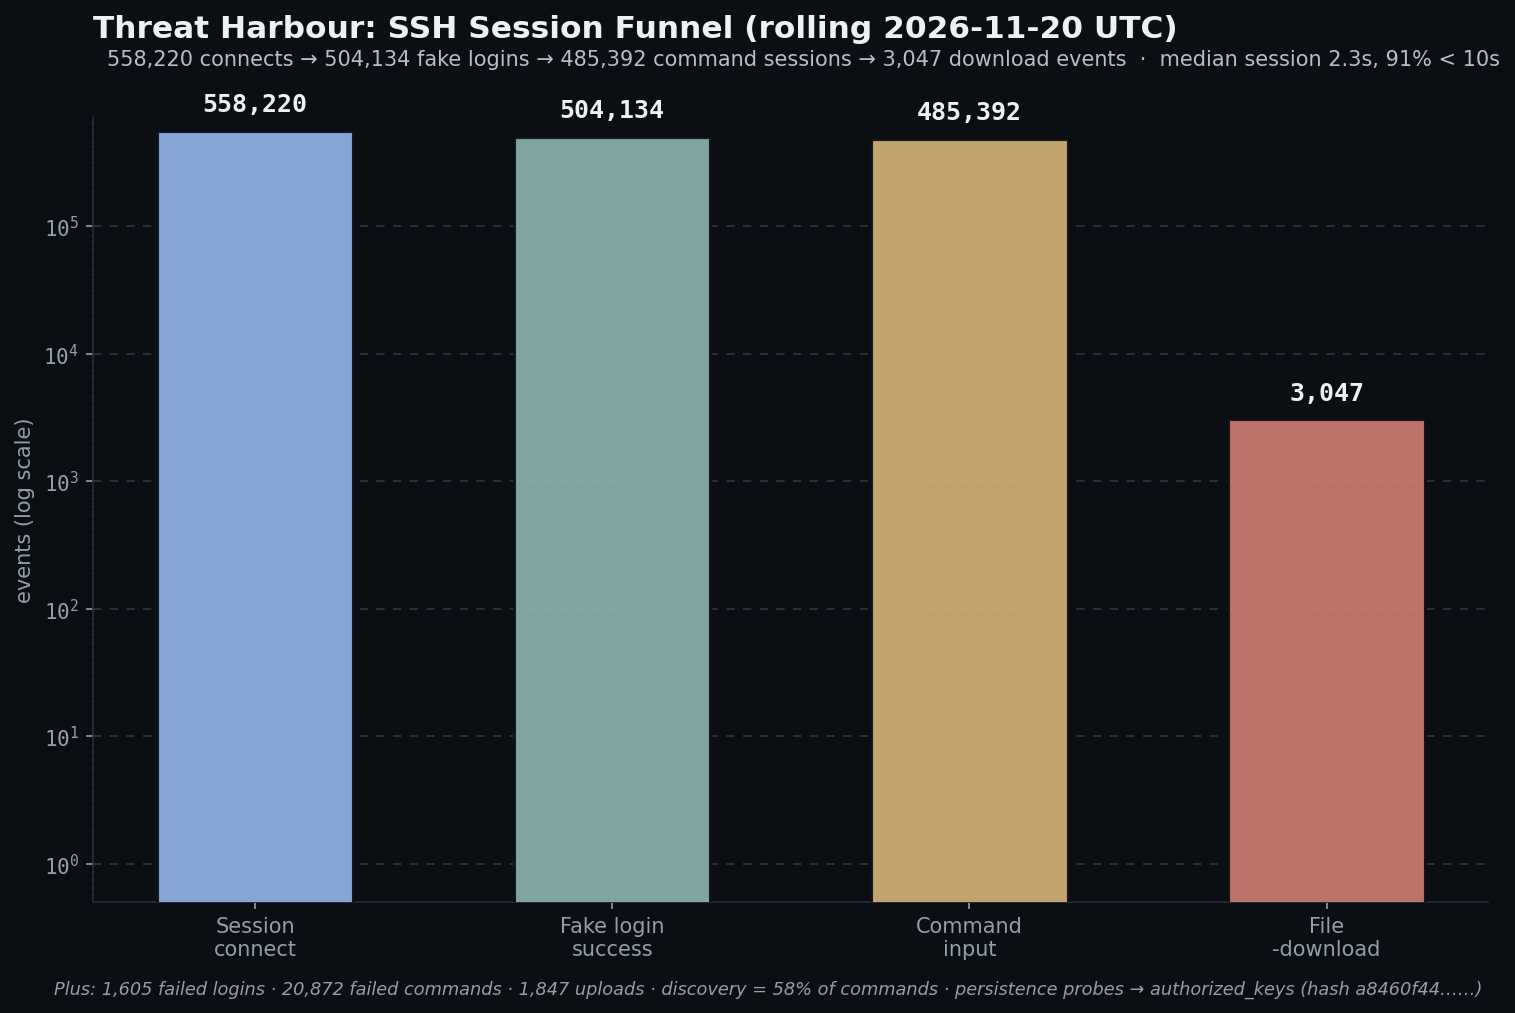
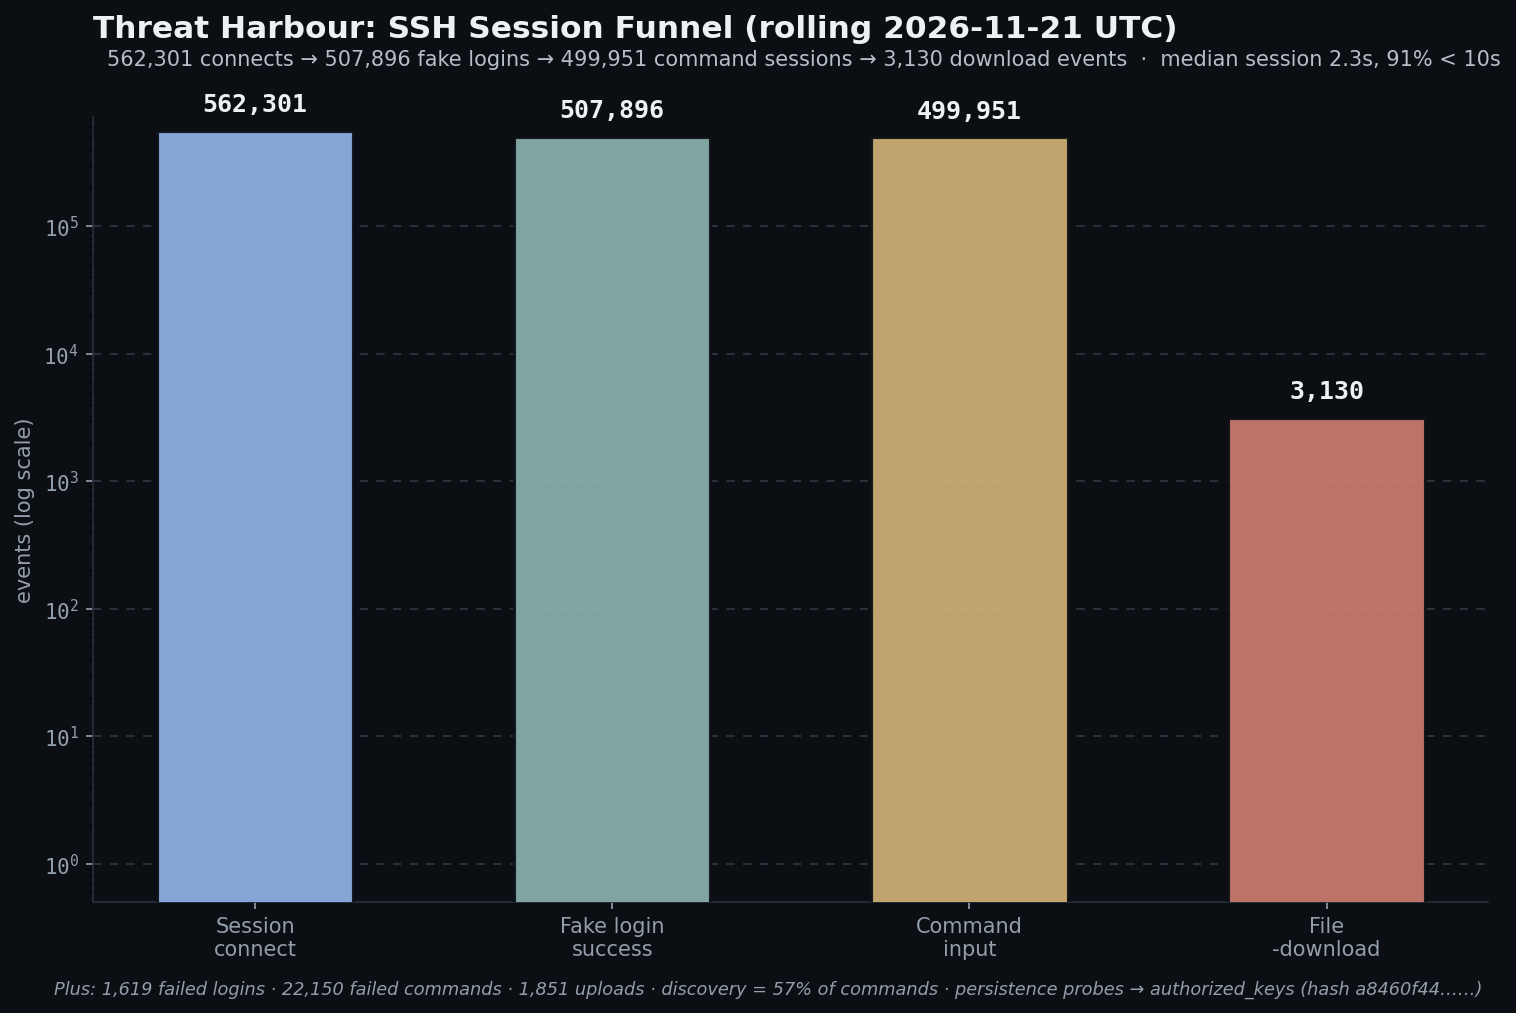
Daily metrics: 4,398,126 events (automated)

diff --git a/analysis/summary.md b/analysis/summary.md
@@ -1,13 +1,13 @@
-# Analysis summary (rolling snapshot, cutoff 2026-11-20T06:10:14Z)
+# Analysis summary (rolling snapshot, cutoff 2026-11-21T06:03:02Z)
 
 Sensor is **still running**: this file regenerates every 24 hours.
 Observation: `2026-08-27` → `ongoing`. Numbers below are a snapshot at
-`2026-11-20T06:10:14Z` (4,354,804 events).
+`2026-11-21T06:03:02Z` (4,398,126 events).
 
 ## Source
 
 - Cowrie JSONL on sensor: `/home/jack/honeypot/var/log/cowrie/cowrie.json*`
-  (86 files, 45 malformed lines): the same files Promtail ships to Loki
+  (87 files, 45 malformed lines): the same files Promtail ships to Loki
   (`job="cowrie"`).
 - Parser: `scripts/parse_remote.py` (stdlib only, deployed fresh each run);
   renderer: `scripts/render.py`. Aggregates only. Raw logs stay on the
@@ -17,22 +17,21 @@ Observation: `2026-08-27` → `ongoing`. Numbers below are a snapshot at
 
 | Metric | Value |
 |---|---|
-| Total events | 4,354,804 |
-| Unique source IPs | 10,130 |
-| Sessions (`cowrie.session.connect`) | 558,220 |
-| SSH events | 4,354,804 (100%) |
-| Fake successful logins (`cowrie.login.success`) | 504,134 |
-| Failed logins | 1,605 |
-| Command-input events | 485,392 (+20,872 `command.failed`) |
-| File-download events | 3,047 |
-| File-upload events | 1,847 |
-| Session duration median (n=557,960 matched close) | 2.3s; 506,584 < 10s; max ~18,022s |
+| Total events | 4,398,126 |
+| Unique source IPs | 10,215 |
+| Sessions (`cowrie.session.connect`) | 562,301 |
+| SSH events | 4,398,126 (100%) |
+| Fake successful logins (`cowrie.login.success`) | 507,896 |
+| Failed logins | 1,619 |
+| Command-input events | 499,951 (+22,150 `command.failed`) |
+| File-download events | 3,130 |
+| File-upload events | 1,851 |
+| Session duration median (n=562,041 matched close) | 2.3s; 510,231 < 10s; max ~18,022s |
 
 ## Events per UTC day
 
 | Day (UTC) | Events |
 |---|---|
-| `2026-10-22` | 85,522 |
 | `2026-10-23` | 94,483 |
 | `2026-10-24` | 93,187 |
 | `2026-10-25` | 96,986 |
@@ -61,10 +60,11 @@ Observation: `2026-08-27` → `ongoing`. Numbers below are a snapshot at
 | `2026-11-17` | 57,401 |
 | `2026-11-18` | 87,847 |
 | `2026-11-19` | 72,413 |
-| `2026-11-20` | 8,606 |
+| `2026-11-20` | 45,020 |
+| `2026-11-21` | 6,908 |
 
 <details>
-<summary>Older days (56 days, click to expand)</summary>
+<summary>Older days (57 days, click to expand)</summary>
 
 | Day (UTC) | Events |
 |---|---|
@@ -124,67 +124,68 @@ Observation: `2026-08-27` → `ongoing`. Numbers below are a snapshot at
 | `2026-10-19` | 88,052 |
 | `2026-10-20` | 82,218 |
 | `2026-10-21` | 99,039 |
+| `2026-10-22` | 85,522 |
 
 </details>
 
-`2026-11-20` is partial at cutoff: do not annualize.
+`2026-11-21` is partial at cutoff: do not annualize.
 
 ### Top usernames
 
 | # | Value | Tries |
 |---|---|---|
-| 1 | `root` | 195,582 |
-| 2 | `ubuntu` | 58,107 |
-| 3 | `admin` | 35,230 |
+| 1 | `root` | 197,261 |
+| 2 | `ubuntu` | 58,230 |
+| 3 | `admin` | 35,438 |
 | 4 | `y2unix` | 18,853 |
-| 5 | `user` | 18,068 |
-| 6 | `deploy` | 3,700 |
-| 7 | `test` | 2,892 |
-| 8 | `345gs5662d34` | 2,119 |
-| 9 | `user1` | 1,963 |
-| 10 | `claude` | 1,711 |
+| 5 | `user` | 18,123 |
+| 6 | `deploy` | 3,746 |
+| 7 | `test` | 2,926 |
+| 8 | `345gs5662d34` | 2,125 |
+| 9 | `user1` | 1,989 |
+| 10 | `claude` | 1,733 |
 
 ### Top passwords
 
 | # | Value | Tries |
 |---|---|---|
-| 1 | `123456` | 12,967 |
-| 2 | `123` | 6,757 |
-| 3 | `1234` | 6,238 |
-| 4 | `12345678` | 3,716 |
-| 5 | `1` | 3,099 |
-| 6 | `root` | 2,828 |
-| 7 | `password` | 2,791 |
-| 8 | `12345` | 2,753 |
-| 9 | `admin` | 2,730 |
-| 10 | `345gs5662d34` | 2,119 |
+| 1 | `123456` | 13,139 |
+| 2 | `123` | 6,849 |
+| 3 | `1234` | 6,313 |
+| 4 | `12345678` | 3,780 |
+| 5 | `1` | 3,139 |
+| 6 | `root` | 2,870 |
+| 7 | `password` | 2,837 |
+| 8 | `12345` | 2,799 |
+| 9 | `admin` | 2,764 |
+| 10 | `123456789` | 2,141 |
 
 ### Top commands
 
 | # | Value | Tries |
 |---|---|---|
-| 1 | `uname -s -v -n -r -m` | 242,229 |
+| 1 | `uname -s -v -n -r -m` | 244,801 |
 | 2 | `echo -e "\x6F\x6B"` | 11,273 |
-| 3 | `hostname` | 6,839 |
-| 4 | `uname -a` | 5,068 |
-| 5 | `echo xsec` | 4,612 |
-| 6 | `whoami` | 3,976 |
+| 3 | `hostname` | 6,886 |
+| 4 | `uname -a` | 5,099 |
+| 5 | `echo xsec` | 4,803 |
+| 6 | `whoami` | 4,000 |
 | 7 | `export PATH=/usr/local/sbin:/usr/local/bin:/usr/sbin:/usr/bi…` | 3,672 |
 | 8 | `/bin/./uname -s -v -n -r -m` | 3,531 |
-| 9 | `pwd` | 3,280 |
-| 10 | `cd ~; chattr -ia .ssh; lockr -ia .ssh` | 2,991 |
+| 9 | `pwd` | 3,302 |
+| 10 | `cd ~; chattr -ia .ssh; lockr -ia .ssh` | 3,077 |
 
 ### Command categories
 
 | Category | Events |
 |---|---|
-| `destructive` | 7,425 |
-| `discovery` | 281,188 |
-| `downloader` | 88 |
+| `destructive` | 7,508 |
+| `discovery` | 284,025 |
+| `downloader` | 90 |
 | `empty` | 9 |
-| `other` | 59,747 |
-| `persistence-privilege` | 3,263 |
-| `shell-exec` | 133,672 |
+| `other` | 63,421 |
+| `persistence-privilege` | 3,266 |
+| `shell-exec` | 141,632 |
 
 ## Limitations that shape these numbers
 

diff --git a/README.md b/README.md
@@ -21,28 +21,28 @@ Use it to:
 No attribution, no hype: just counts of what hit the sensor, refreshed daily.
 
 <!-- METRICS:START -->
-## Collected Data: refreshed every 24 hours (last run `2026-11-20 UTC`)
+## Collected Data: refreshed every 24 hours (last run `2026-11-21 UTC`)
 
 `2026-08-27` → `ongoing` · Cowrie `3.0.13` · SSH-only · `ap-hyderabad-1`.
 
 | Total events | Unique IPs | Sessions | Fake logins | Commands | Downloads (+uploads) |
 |---|---|---|---|---|---|
-| `4,354,804` | `10,130` | `558,220` | `504,134` / 1,605 failed | `485,392` (+20,872 failed) | `3,047` (+1,847 uploads) |
+| `4,398,126` | `10,215` | `562,301` | `507,896` / 1,619 failed | `499,951` (+22,150 failed) | `3,130` (+1,851 uploads) |
 
 | # | Top username | Top password | Top command |
 |---|---|---|---|
-| 1 | `root` (195,582) | `123456` (12,967) | `uname -s -v -n -r -m` (242,229) |
-| 2 | `ubuntu` (58,107) | `123` (6,757) | `echo -e "\x6F\x6B"` (11,273) |
-| 3 | `admin` (35,230) | `1234` (6,238) | `hostname` (6,839) |
-| 4 | `y2unix` (18,853) | `12345678` (3,716) | `uname -a` (5,068) |
-| 5 | `user` (18,068) | `1` (3,099) | `echo xsec` (4,612) |
+| 1 | `root` (197,261) | `123456` (13,139) | `uname -s -v -n -r -m` (244,801) |
+| 2 | `ubuntu` (58,230) | `123` (6,849) | `echo -e "\x6F\x6B"` (11,273) |
+| 3 | `admin` (35,438) | `1234` (6,313) | `hostname` (6,886) |
+| 4 | `y2unix` (18,853) | `12345678` (3,780) | `uname -a` (5,099) |
+| 5 | `user` (18,123) | `1` (3,139) | `echo xsec` (4,803) |
 
 Key findings:
 
 - Median session `2.3s` (91% under 10s): mostly automated scanning, not humans.
-- `58%` of commands are discovery/fingerprinting (`uname`, `hostname`, `whoami`).
+- `57%` of commands are discovery/fingerprinting (`uname`, `hostname`, `whoami`).
 - Repeated persistence probes writing toward `authorized_keys` (hash `a8460f44……`, content withheld).
-- Busiest /16 by volume: `109.160.0.0/16` (1,717,282 events): volume only, never attribution.
+- Busiest /16 by volume: `109.160.0.0/16` (1,737,854 events): volume only, never attribution.
 
 ![Session funnel](diagrams/session-funnel.png)
 ![Activity timeline](diagrams/activity-timeline.png)

diff --git a/evidence/manifest.md b/evidence/manifest.md
@@ -1,12 +1,12 @@
-# Evidence manifest (rolling snapshot, cutoff 2026-11-20T06:10:14Z)
+# Evidence manifest (rolling snapshot, cutoff 2026-11-21T06:03:02Z)
 
 Raw Cowrie logs are **retained on the sensor only** and are not published.
 This manifest lets a reviewer re-derive `analysis/metrics.json`.
 
 ## Dataset
 
-- Host path: `/home/jack/honeypot/var/log/cowrie/cowrie.json*` (86 files)
-- Total lines: 4,354,804 (45 malformed)
+- Host path: `/home/jack/honeypot/var/log/cowrie/cowrie.json*` (87 files)
+- Total lines: 4,398,126 (45 malformed)
 - Cowrie: `3.0.13`
 - Collector: Promtail `2.9.4` → Loki `2.9.4` (`job="cowrie"`), Grafana `10.2.3`
 
@@ -14,7 +14,7 @@ This manifest lets a reviewer re-derive `analysis/metrics.json`.
 
 | File | Lines |
 |---|---|
-| `cowrie.json` | 8,606 |
+| `cowrie.json` | 6,908 |
 | `cowrie.json.2026-08-27` | 964 |
 | `cowrie.json.2026-08-28` | 15,483 |
 | `cowrie.json.2026-08-29` | 17,457 |
@@ -100,6 +100,7 @@ This manifest lets a reviewer re-derive `analysis/metrics.json`.
 | `cowrie.json.2026-11-17` | 57,401 |
 | `cowrie.json.2026-11-18` | 87,847 |
 | `cowrie.json.2026-11-19` | 72,413 |
+| `cowrie.json.2026-11-20` | 45,020 |
 
 ## What is / is not in this repo
 
